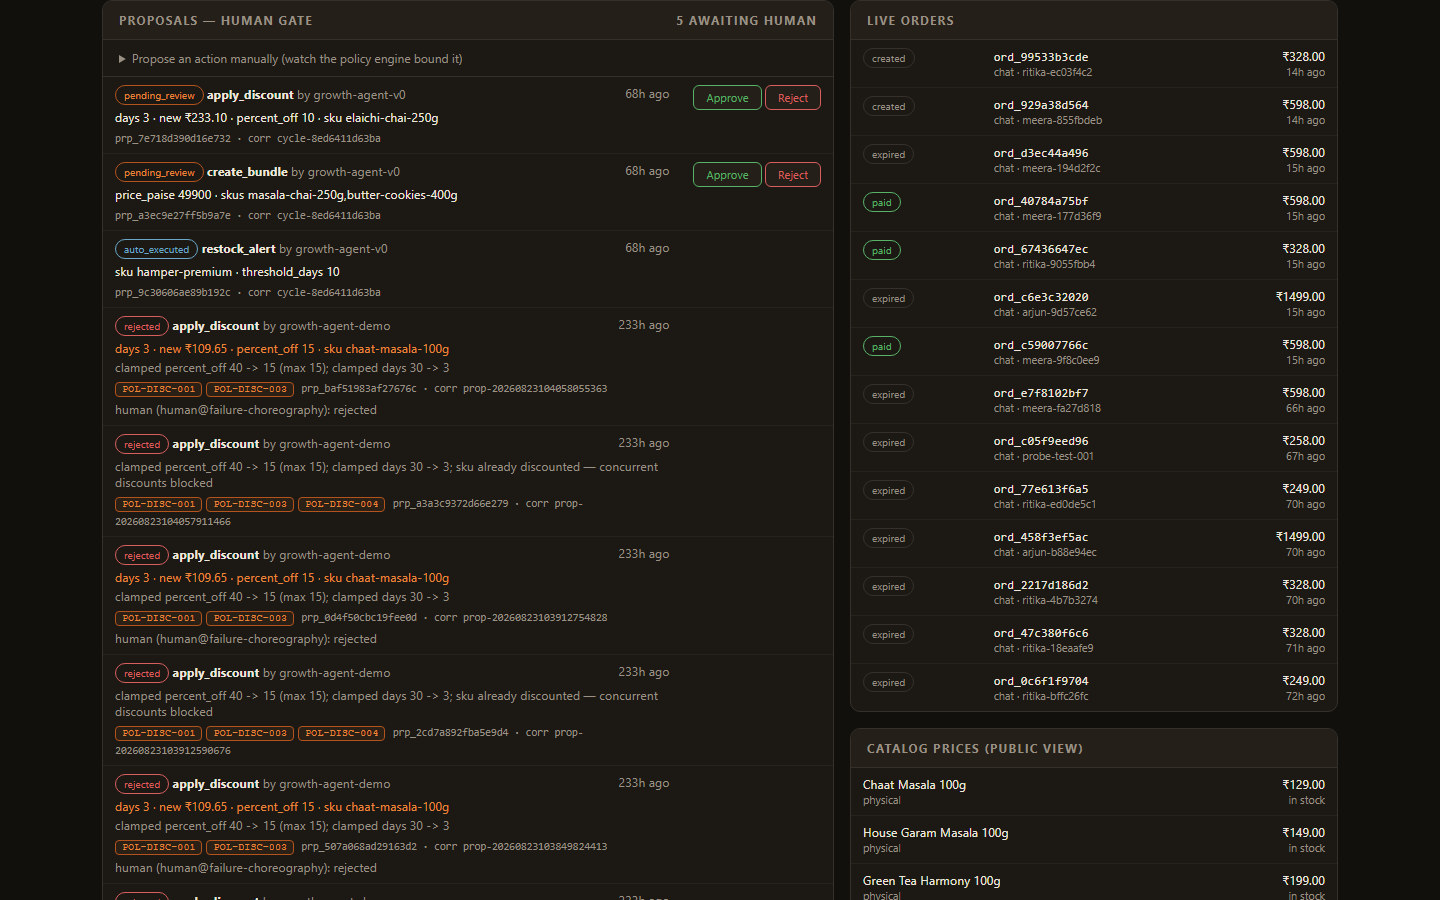
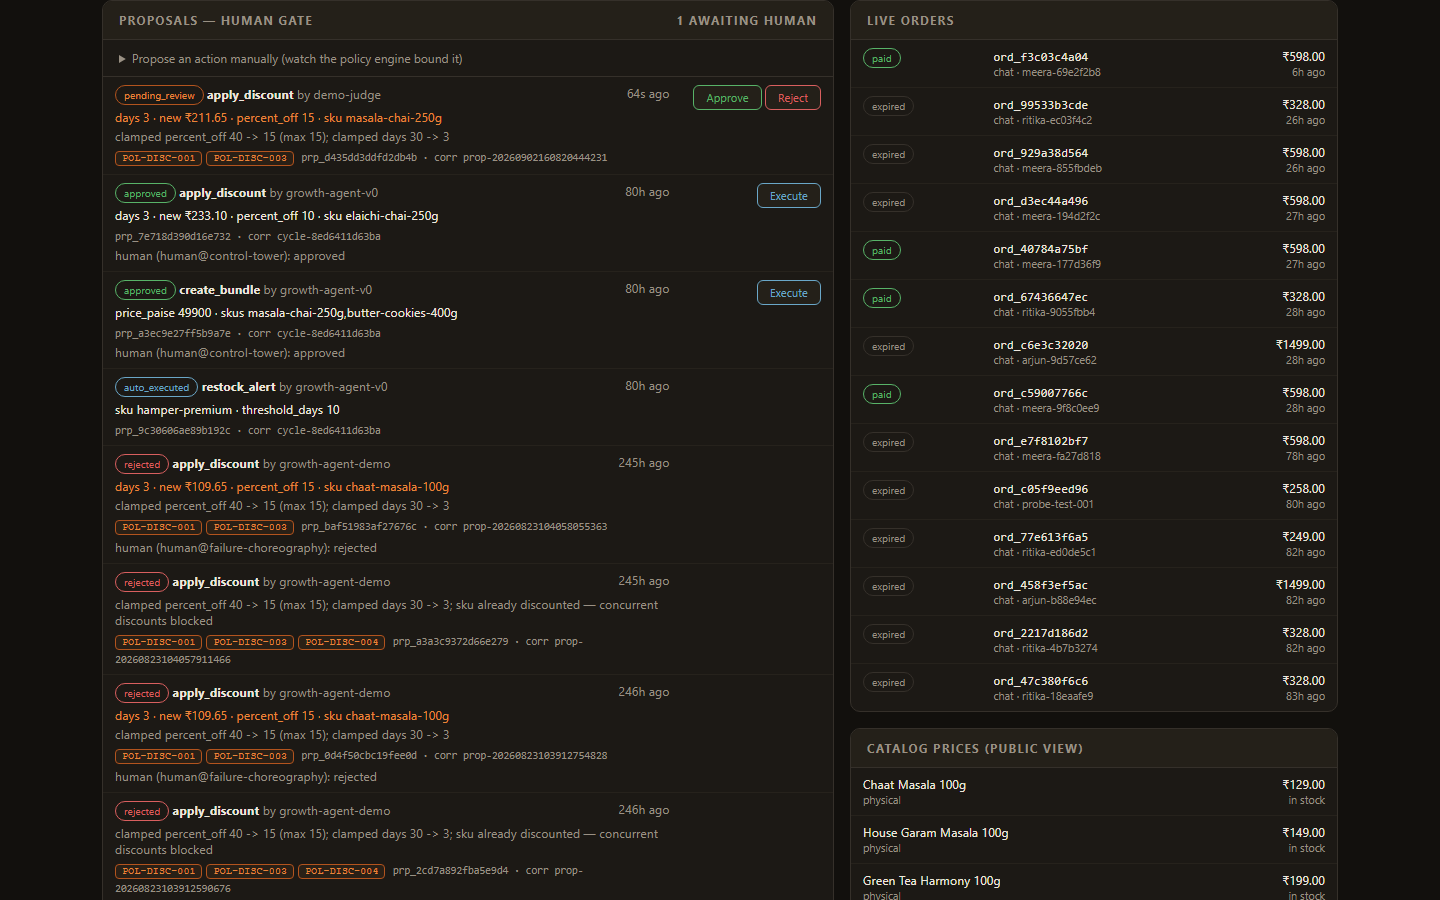
Fix /demo: REPLAY looked like a play button but only toggled a mode
Reported as "clicking REPLAY and PREVIEW does nothing". The replay itself
was never broken -- `POST /demo/api/start` returned ok, the SSE beats
arrived, and the client paced them into a 90-second narrated trip ending
in PAID / ord_a04c004009084b / Rs340.65.

The bug was the affordance. The start panel has three rows of buttons, and
the top two -- REPLAY / LIVE and PAID TRIP / RISK GATE -- are mode
toggles. They are styled exactly like the buttons that start a trip, so a
viewer clicks REPLAY expecting playback, gets a silent mode change, and
concludes the page is dead. The thing that actually starts a trip is
clicking a persona (RITIKA / MEERA / ARJUN), which reads as "pick a
character", not "press play".

Three changes:

1. A pulsing cue between the toggles and the persona row:
   "▼ NOW PICK A BUYER TO START".
2. The persona buttons are now the CTA: "▶ RITIKA" etc., in the same
   green the page already uses for #btn-start, so the start action is one
   colour and the toggles are another.
3. A "or just look around the town first ›" exit. The panel had no way out
   that did not commit to a trip, so a judge could not inspect the town,
   and any screenshot of /demo was a screenshot of a modal.

capture_screenshots.py now dismisses the panel via that real link before
shooting, and asserts the town is on screen. The previous README hero was
taken with the panel up at z-index 26 -- it was a picture of a dialog
box, not of the product.
[…]

diff --git a/app/bazaar_live.html b/app/bazaar_live.html
@@ -194,6 +194,22 @@ canvas#game{position:absolute; inset:0; width:100%; height:100%;
 .pb.on{background:var(--chai); color:#1a1c2c; box-shadow:0 .55cqw 0 #6b3f12}
 .pb.on small{color:#4a3016}
 .pb.on:hover:not(:disabled){background:var(--gold); color:#1a1c2c}
+/* the persona row STARTS the trip; the two rows above it only select a
+   mode. Green is the start colour everywhere else on this page
+   (#btn-start), so the CTA matches and the toggles do not. */
+.startcue{text-align:center; margin-top:4.5%; font-family:var(--pfont);
+  font-size:1.6cqw; letter-spacing:1px; color:var(--grn-hi);
+  animation:cuepulse 1.9s ease-in-out infinite}
+@keyframes cuepulse{0%,100%{opacity:.5}50%{opacity:1}}
+.pb.go{background:var(--grn); color:#08170d; box-shadow:0 .55cqw 0 #0b3d1e}
+.pb.go small{color:#0e3b21}
+.pb.go:hover:not(:disabled){background:var(--grn-hi); color:#08170d}
+/* the panel had no exit that did not start a trip. A judge who wants to
+   look around first, or anyone screenshotting the town, needs one. */
+.skiplink{margin-top:3.5%; background:none; border:0; cursor:pointer;
+  font-family:var(--bfont); font-size:2.4cqw; color:var(--dim);
+  text-decoration:underline; text-underline-offset:3px}
+.skiplink:hover{color:var(--teal)}
 #start-status{font-family:var(--bfont); font-size:2.7cqw; color:var(--mute)}
 #variant-row.off{display:none}
 
@@ -418,12 +434,19 @@ canvas#game{position:absolute; inset:0; width:100%; height:100%;
             <button class="pb vb on" data-v="paid" type="button">PAID TRIP<small>captured end-to-end</small></button>
             <button class="pb vb" data-v="challenged" type="button">RISK GATE<small>stopped, never routed around</small></button>
           </div>
-          <div class="pbtns">
-            <button class="pb" data-p="ritika" type="button">RITIKA<small>budget ₹350</small></button>
-            <button class="pb" data-p="meera" type="button">MEERA<small>budget ₹1000</small></button>
-            <button class="pb" data-p="arjun" type="button">ARJUN<small>budget ₹1500</small></button>
+          <!-- The two rows above are toggles, not play buttons. They read as
+               the primary action and people click REPLAY expecting the demo
+               to start -- it only selects a mode, so nothing visibly happens
+               and the page looks broken. The row below is what actually
+               starts a trip, so it is labelled and styled as the CTA. -->
+          <div class="startcue"><span>▼ NOW PICK A BUYER TO START</span></div>
+          <div class="pbtns" id="persona-row">
+            <button class="pb go" data-p="ritika" type="button">▶ RITIKA<small>budget ₹350</small></button>
+            <button class="pb go" data-p="meera" type="button">▶ MEERA<small>budget ₹1000</small></button>
+            <button class="pb go" data-p="arjun" type="button">▶ ARJUN<small>budget ₹1500</small></button>
           </div>
           <div id="start-status">connecting to runner…</div>
+          <button class="skiplink" id="start-skip" type="button">or just look around the town first ›</button>
         </div>
 
         <div id="sum">
@@ -2219,6 +2242,11 @@ function enableModeButtons(){
 function enableButtons(on){ pbs.forEach(x=>x.disabled=!on); }
 function openStart(){ startov.classList.add("on"); enableButtons(connected); enableModeButtons(); }
 document.getElementById("btn-start").addEventListener("click",openStart);
+/* Dismiss into attract mode without committing to a trip. The town is the
+   product; the panel is just the front door, and it should be possible to
+   stand in the doorway. */
+const btnSkip=document.getElementById("start-skip");
+if(btnSkip) btnSkip.addEventListener("click",()=>{ startov.classList.remove("on"); });
 
 /* --- UPI Reserve Pay envelope: break a live consent envelope --- */
 const btnEnv=document.getElementById("btn-envelope");

diff --git a/app/scripts/capture_screenshots.py b/app/scripts/capture_screenshots.py
@@ -33,7 +33,9 @@ Three rules this script follows on purpose.
 
 from __future__ import annotations
 
+import json
 import sys
+import urllib.request
 from pathlib import Path
 
 from PIL import Image
@@ -60,6 +62,43 @@ def check(label: str, cond: bool, detail: str = "") -> bool:
     return cond
 
 
+def _http_json(url: str, payload: dict | None = None) -> dict:
+    """Tiny stdlib HTTP helper, so the script needs no requests/httpx."""
+    data = json.dumps(payload).encode() if payload is not None else None
+    req = urllib.request.Request(
+        url, data=data,
+        headers={"Content-Type": "application/json"} if data else {})
+    with urllib.request.urlopen(req, timeout=30) as r:
+        return json.loads(r.read().decode())
+
+
+def ensure_pending_proposal(base: str) -> str:
+    """Guarantee the human gate has something in it.
+
+    The Control Tower shot exists to show a proposal awaiting a human, and
+    the clamp line underneath it. Proposals get approved, rejected or
+    expire, so on any given day the queue may be empty -- and a screenshot
+    of an empty gate is worse than no screenshot, because the caption
+    still claims a queue.
+
+    So create one if the queue is empty, and leave it alone otherwise: the
+    shot stays honest (a real pending proposal, submitted through the real
+    public API) and reruns do not pile proposals up.
+    """
+    listed = _http_json(f"{base}/governance/proposals?limit=25")
+    items = listed.get("proposals") or []
+    pending = [p for p in items if p.get("status") == "pending_review"]
+    if pending:
+        return f"{len(pending)} already pending"
+
+    res = _http_json(f"{base}/governance/proposals", {
+        "actor": "demo-judge",
+        "action_type": "apply_discount",
+        "params": {"sku": "masala-chai-250g", "percent_off": 40, "days": 30},
+    })
+    return "created " + str(res.get("proposal_id"))
+
+
 with sync_playwright() as p:
     b = p.chromium.launch()
 
@@ -67,10 +106,27 @@ with sync_playwright() as p:
     # The demo: 8-bit stage + the reserve-pay panel mid-break. The panel
     # is empty until the button is pressed, so press it and wait for all
     # ten rows before shooting.
+    #
+    # The start panel covers the town on load (z-index 26), so it has to be
+    # dismissed first -- otherwise the hero image is a picture of a modal.
+    # This uses the real "look around first" affordance rather than
+    # deleting the class with JS, so the shot stays a state a user can
+    # actually reach.
     print("\n[1] /demo  -- envelope panel run")
     pg = b.new_page(viewport={"width": W, "height": H_DEMO})
     pg.goto(f"{BASE}/demo/", wait_until="domcontentloaded", timeout=45000)
     pg.wait_for_selector("#btn-envelope", timeout=20000)
+
+    pg.wait_for_selector("#start-skip", timeout=20000)
+    pg.click("#start-skip")
+    pg.wait_for_timeout(800)
+    check("start panel is dismissed",
+          "on" not in (pg.evaluate(
+              "document.getElementById('startov').className") or ""),
+          pg.evaluate("document.getElementById('startov').className"))
+    check("the town, not a modal, is on screen",
+          pg.locator("canvas").first.is_visible())
+
     pg.click("#btn-envelope")
     pg.wait_for_function(
         "document.querySelectorAll('#env-steps .envrow').length >= 10", timeout=30000
@@ -121,6 +177,7 @@ with sync_playwright() as p:
     # ---------------------------------------------------------------- 3
     # Control Tower, cropped to the band that carries the argument.
     print("\n[3] /control  -- human gate band")
+    print("  queue:", ensure_pending_proposal(BASE))
     pg3 = b.new_page(viewport={"width": W, "height": H})
     pg3.goto(f"{BASE}/control", wait_until="domcontentloaded", timeout=45000)
     pg3.wait_for_selector("#proposals *", timeout=20000)

diff --git a/README.md b/README.md
@@ -70,7 +70,7 @@ Regenerate every figure: `python app/scripts/transactability_report.py`
   <br><sub><b>Break it.</b> Ten steps against a live mandate. Four refusals, each firing exactly one bound — per-transaction cap, category, budget, revocation — then the request that passed at step 2 is re-presented at step 10 and fails. Works with JavaScript off.</sub>
 </td>
 <td width="50%" valign="top" align="center">
-  <a href="https://r2-d2.xyz/control"><img src="app/artifacts/readme-control.png" width="100%" alt="Control Tower: five proposals awaiting a human, with a policy clamp visible at percent_off 40 to 15, beside the live order feed"></a>
+  <a href="https://r2-d2.xyz/control"><img src="app/artifacts/readme-control.png" width="100%" alt="Control Tower: a proposal awaiting a human, with the policy clamp visible at percent_off 40 to 15, beside the live order feed"></a>
   <br><sub><b>The gate.</b> The growth agent can only propose; a human approves or rejects. Read the clamp line: it asked for <code>percent_off 40</code> and the policy engine served <code>15</code>. It clamps rather than rejects, so the agent still learns something.</sub>
 </td>
 </tr>
